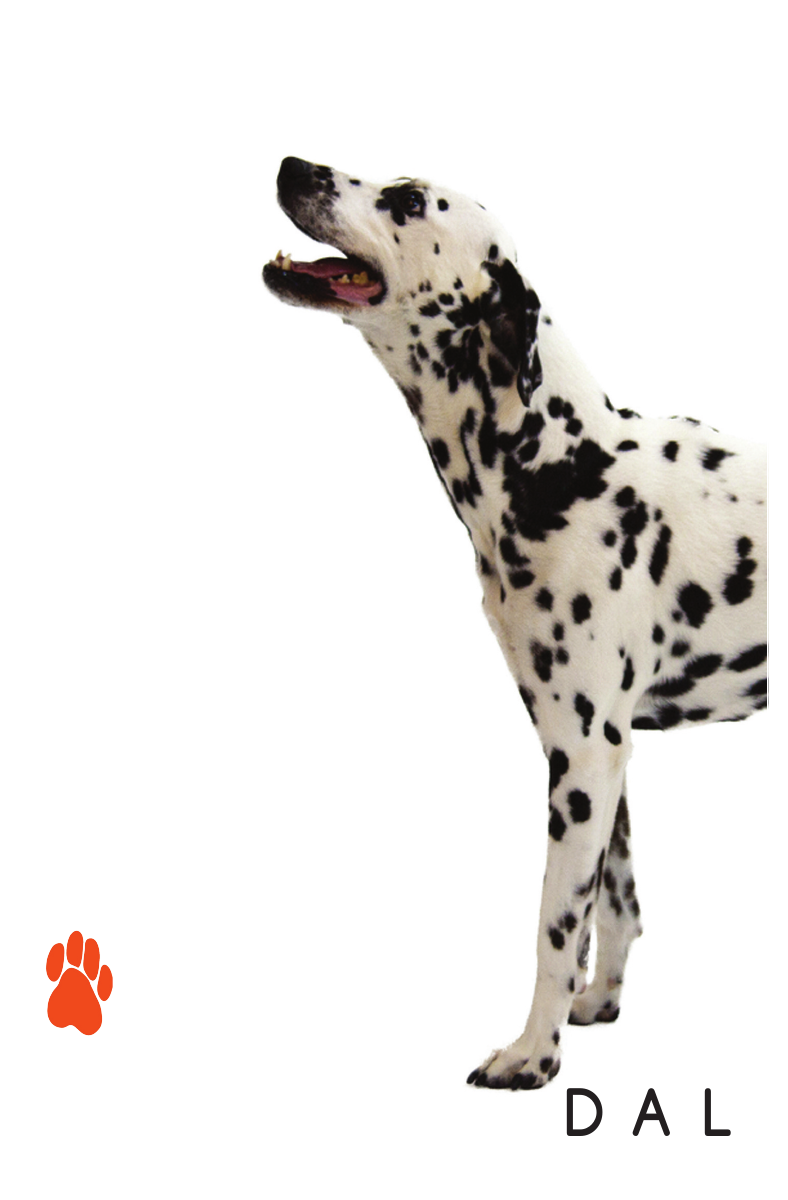
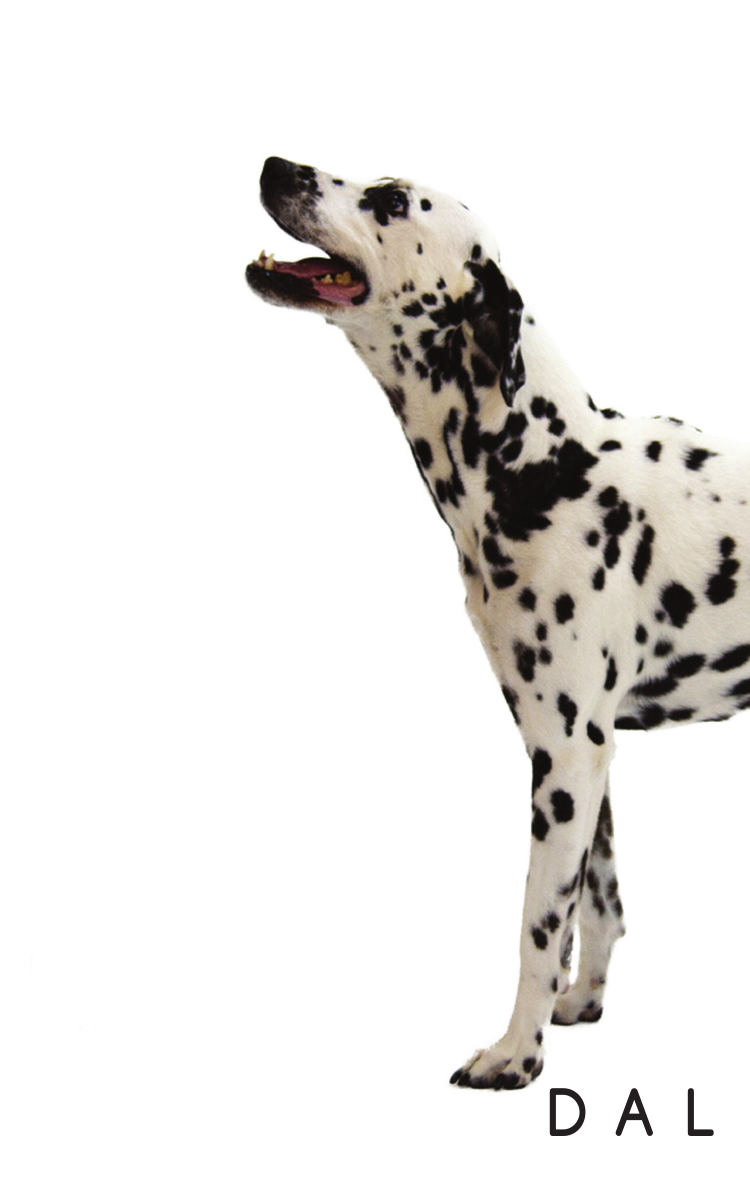
cropped six images and set up carousel with images going front and back

Changed region(s): [[0.46, 0.1542, 1.0, 0.9558], [0.3067, 0.1233, 0.4293, 0.2467], [0.0613, 0.7708, 0.1533, 0.8633]]

diff --git a/src/pages/demo.js b/src/pages/demo.js
@@ -7,11 +7,19 @@ import { DemoContainer } from '../styles/Demo'
 class Demo extends Component {
   state = {
     frontIndex: 0,
-    backIndex: 0
+    backIndex: 0,
   }
 
+  // for expediency setting the number of images to 3 on either side
   swapPicture = (side, direction) => {
-    this.setState({ [side]: this.state[side] + direction })
+    const current = this.state[side]
+    const next =
+      current + direction < 0
+        ? 2
+        : current + direction > 2
+          ? 0
+          : current + direction
+    this.setState({ [side]: next })
   }
 
   render() {
@@ -42,8 +50,13 @@ class Demo extends Component {
         <DemoContainer>
           <button onClick={() => swapPicture('frontIndex', -1)}>Prev</button>
           <button onClick={() => swapPicture('frontIndex', 1)}>Next</button>
-          <Img style={{ width: '300px' }} sizes={fronts[frontIndex].node.sizes} />
-          <Img style={{ width: '300px' }} sizes={backs[0].node.sizes} />
+          <Img
+            style={{ width: '300px' }}
+            sizes={fronts[frontIndex].node.sizes}
+          />
+          <Img style={{ width: '300px' }} sizes={backs[backIndex].node.sizes} />
+          <button onClick={() => swapPicture('backIndex', -1)}>Prev</button>
+          <button onClick={() => swapPicture('backIndex', 1)}>Next</button>
 
           {/*
 
@@ -60,7 +73,6 @@ class Demo extends Component {
           })}
 
           */}
-
         </DemoContainer>
       </Layout>
     )
